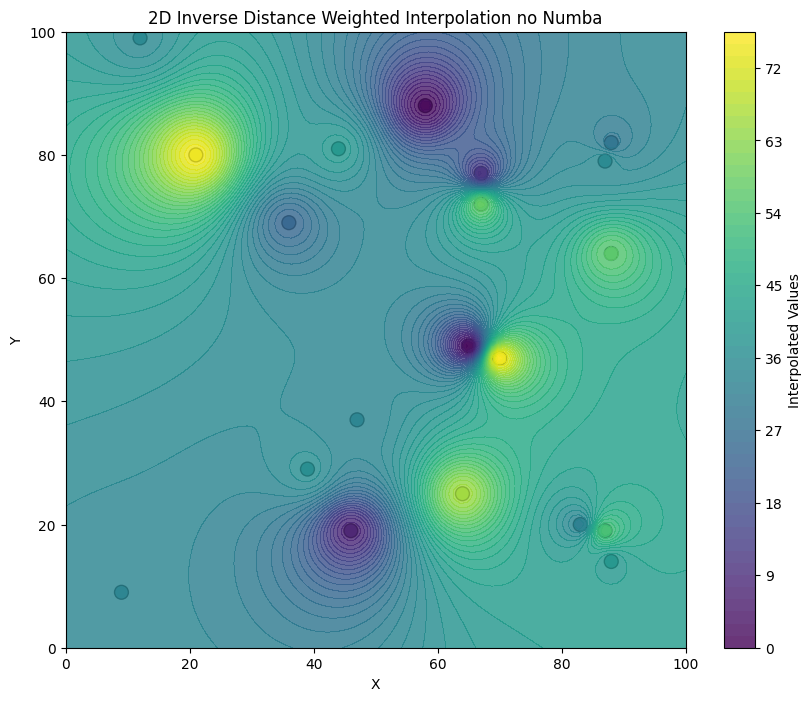
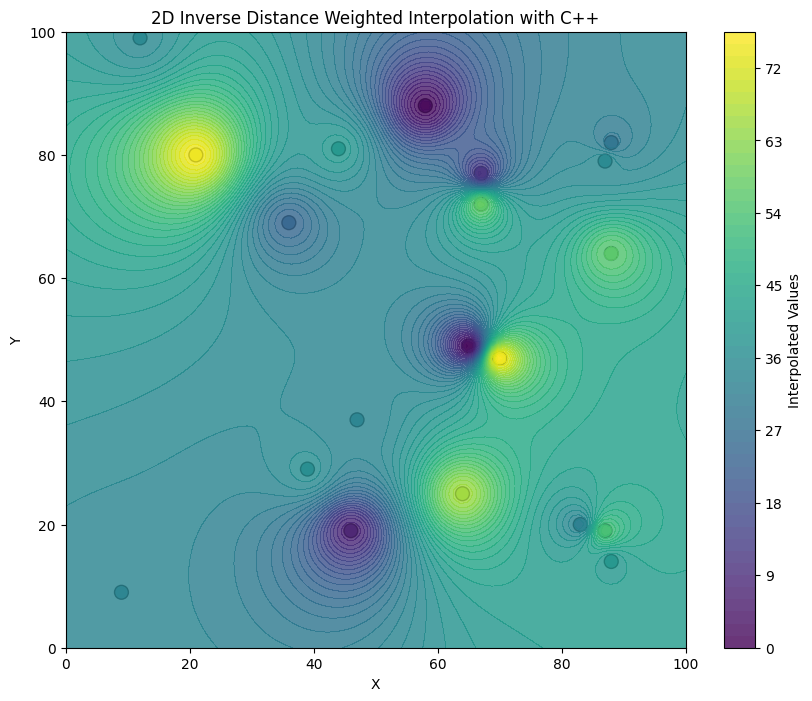
добавил график в ридми

Changed region(s): [[0.1847, 0.0, 0.7389, 0.0599]]

diff --git a/README.md b/README.md
@@ -6,5 +6,7 @@ source venv/bin/activate
 скачать либу
 pip install .
 
+![](idw_cpp.png)
+
 
 ОНФ ЖЫВ!
